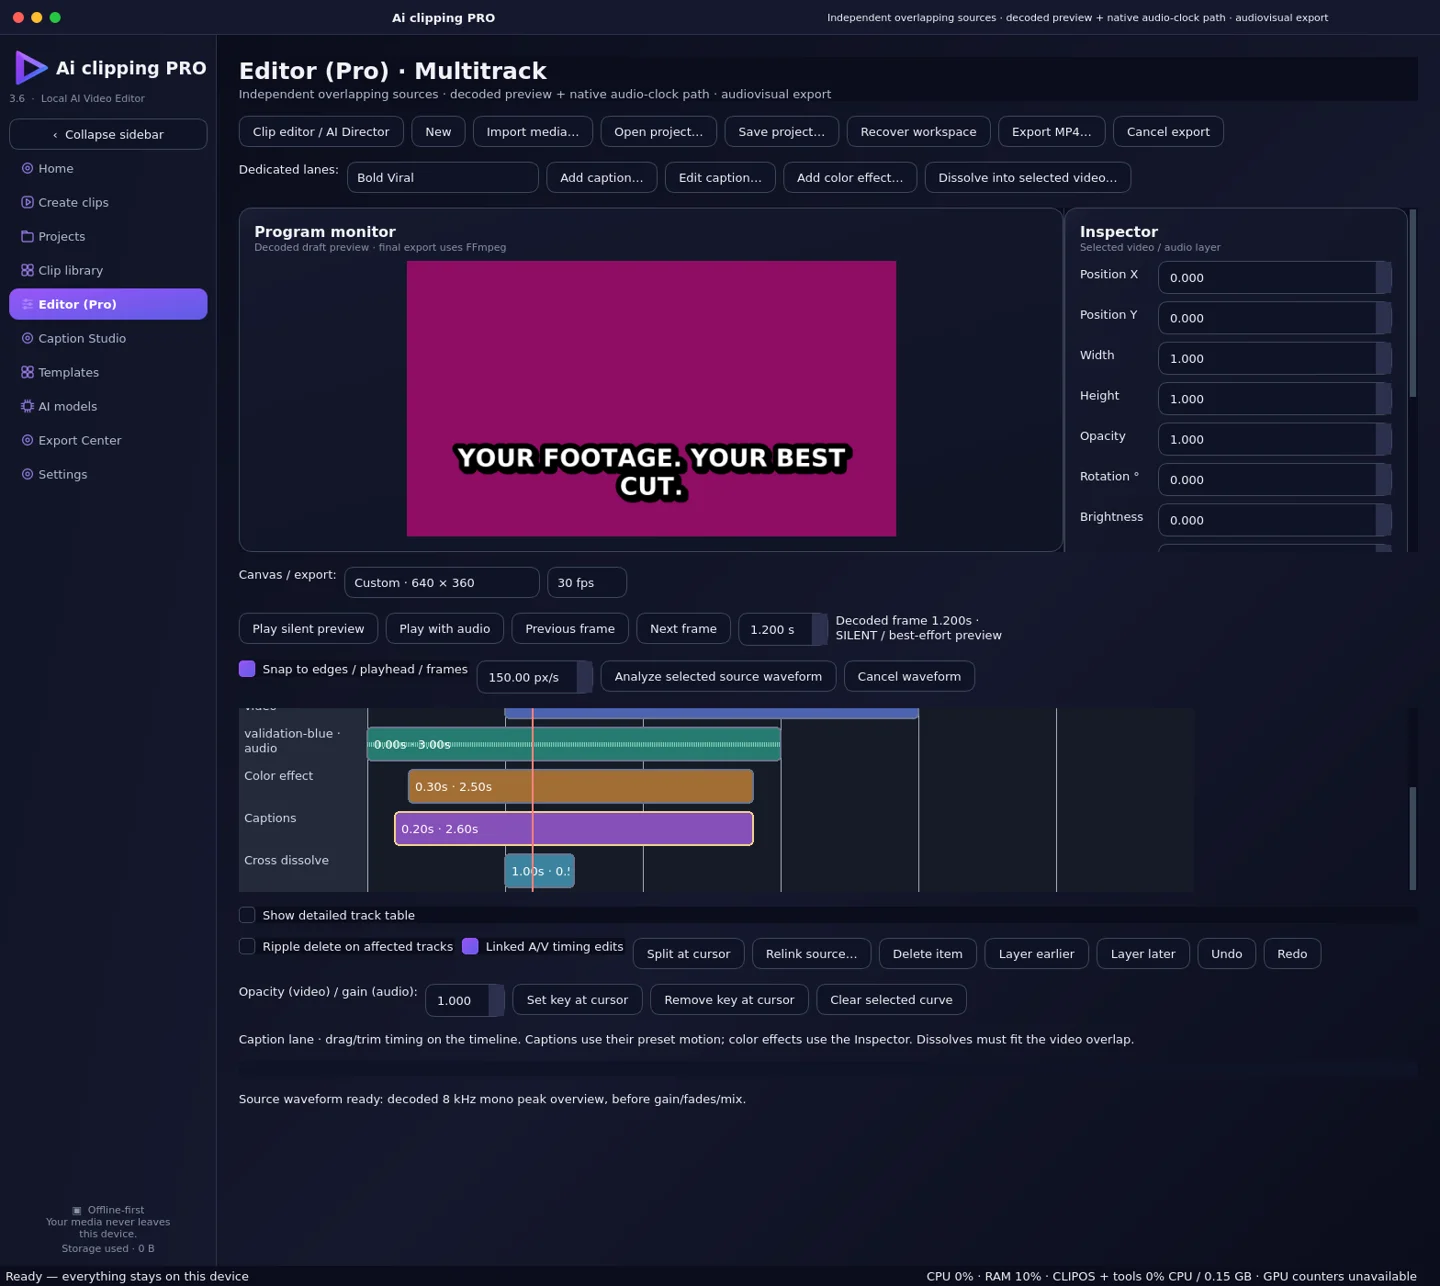
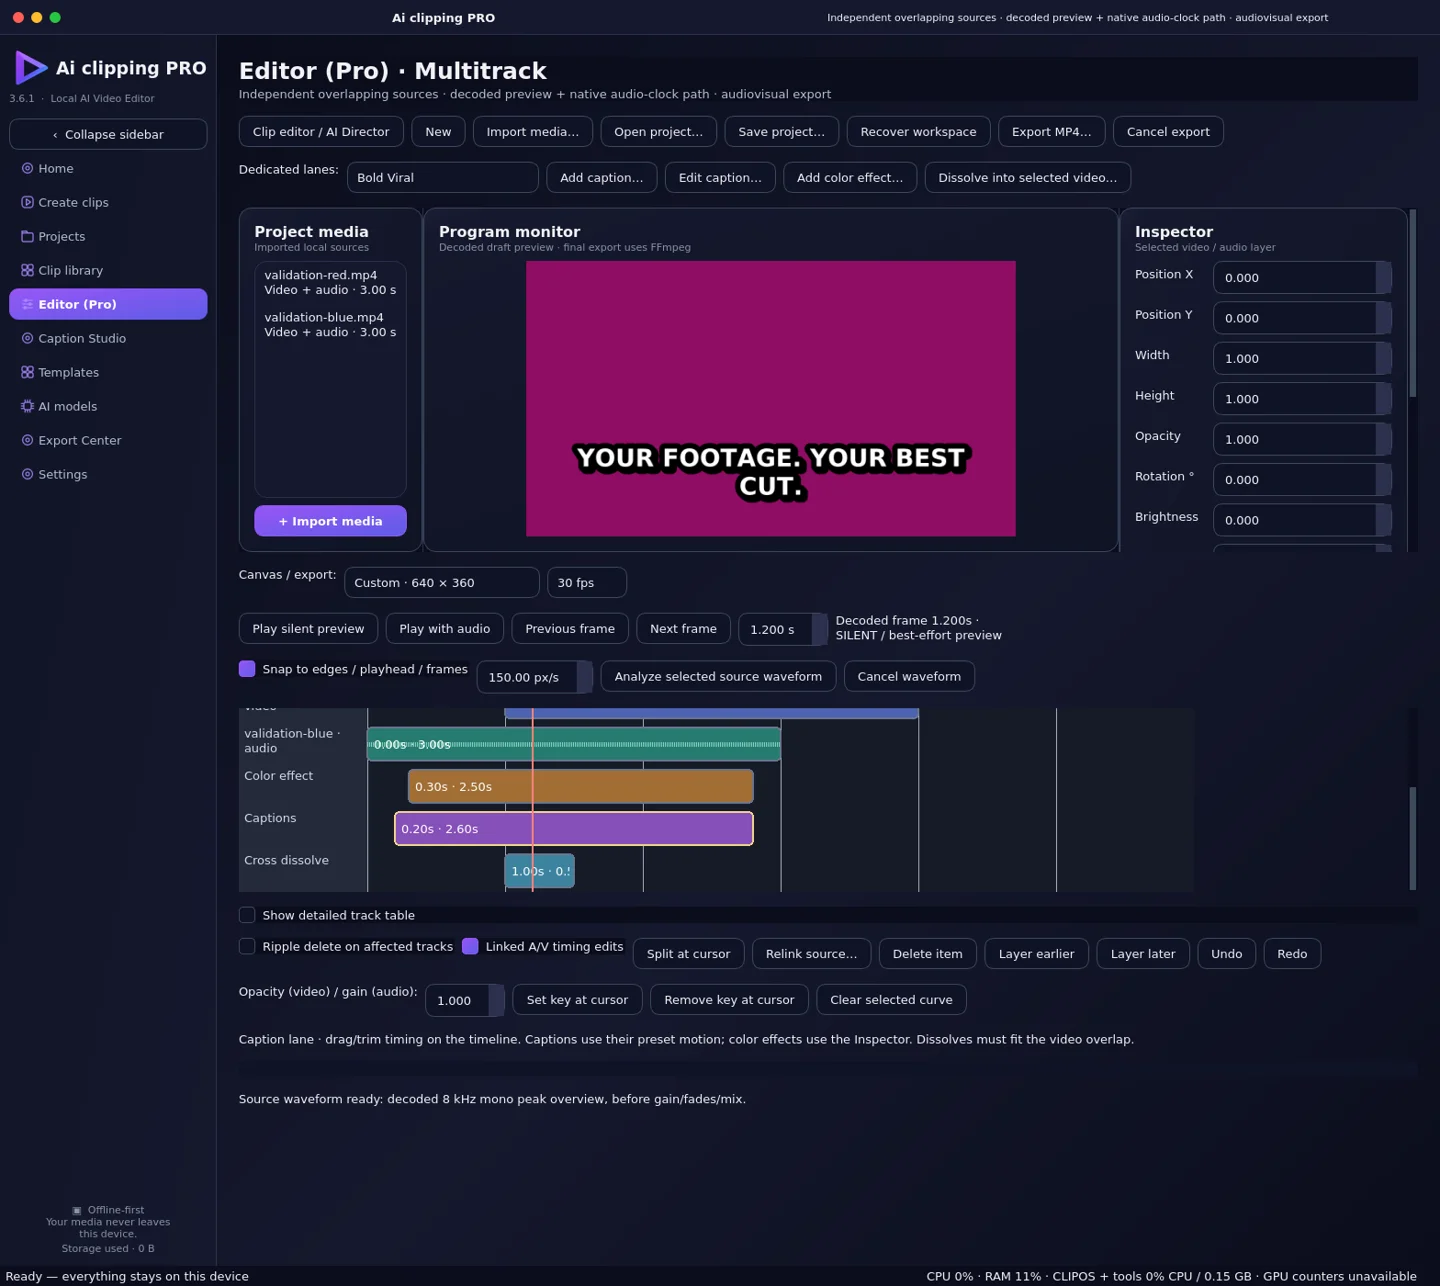
Publish v3.6.1 latest-only downloads and actual reference dashboard captures

Changed region(s): [[0.1562, 0.1555, 0.7188, 0.4355], [0.75, 0.1555, 0.875, 0.4355], [0.0312, 0.0622, 0.0938, 0.0933]]

diff --git a/docs/index.html b/docs/index.html
@@ -6,7 +6,7 @@
     <title>Ai clipping PRO — Your footage. Your best cut.</title>
     <meta
       name="description"
-      content="Make the cut, not the compromise. Ai clipping PRO is an offline-first native video editor with local AI assistance, customizable captions and real multitrack editing. Download v3.6.0."
+      content="Make the cut, not the compromise. Ai clipping PRO is an offline-first native video editor with local AI assistance, customizable captions and real multitrack editing. Download v3.6.1."
     />
     <meta name="theme-color" content="#0b0c14" />
     <meta
@@ -51,8 +51,8 @@
         <div class="hero-glow" aria-hidden="true"></div>
         <a
           class="release-chip"
-          href="https://github.com/Analoggeek/AiFreeClipping/releases/tag/v3.6.0"
-          ><span class="status-dot"></span> v3.6.0 is here
+          href="https://github.com/Analoggeek/AiFreeClipping/releases/tag/v3.6.1"
+          ><span class="status-dot"></span> v3.6.1 is here
           <span class="chip-divider">/</span> Meet your local creative workspace
           <span aria-hidden="true">↗</span></a
         >
@@ -114,7 +114,7 @@
           </div>
           <p>
             A focused native workspace, from your first import to the final
-            file. These are real screenshots from Ai clipping PRO v3.6.
+            file. These are real screenshots from Ai clipping PRO v3.6.1.
           </p>
         </div>
         <div class="studio-shell reveal">
@@ -140,7 +140,7 @@
               aria-controls="panel-home"
               tabindex="0"
             >
-              01 <span>Home & projects</span></button
+              01 <span>Create clips</span></button
             ><button
               id="tab-captions"
               role="tab"
@@ -167,16 +167,15 @@
           >
             <img
               src="assets/home.webp"
-              alt="Actual Ai clipping PRO Home screen with local Director handoff, project statistics, recent projects and hardware status. The empty library shows real zero counts."
+              alt="Actual Ai clipping PRO Create clips dashboard with connected four-step workflow, file/link import, quick styles, local AI Director, real recent projects and model availability."
               width="1440"
-              height="1010"
+              height="1056"
               fetchpriority="high"
             />
             <div class="panel-caption">
-              <b>Your creative home base.</b
+              <b>Your connected creative workspace.</b
               ><span
-                >Recent work, grounded AI assistance and real project
-                statistics.</span
+                >Real import, synchronized styles and explicit local-model checks.</span
               >
             </div>
           </div>
@@ -190,7 +189,7 @@
               src="assets/caption-studio.webp"
               alt="Actual Caption Studio showing a locally rendered caption frame, preset browser, typography, text colors, animation, alignment and timing controls."
               width="1440"
-              height="1010"
+              height="1056"
               loading="lazy"
             />
             <div class="panel-caption">
@@ -209,7 +208,7 @@
           >
             <img
               src="assets/editor.webp"
-              alt="Actual v3.6 multitrack validation project: generated red and blue footage dissolves into purple under a real caption; independent color-effect, caption and dissolve lanes are visible."
+              alt="Actual v3.6.1 multitrack validation project: generated red and blue footage dissolves into purple under a real caption; independent color-effect, caption and dissolve lanes are visible."
               width="1440"
               height="1286"
               loading="lazy"
@@ -392,7 +391,7 @@
         <div class="section-heading reveal">
           <div>
             <p class="eyebrow">
-              <span class="status-dot"></span> PUBLISHED RELEASE / v3.6.0
+              <span class="status-dot"></span> PUBLISHED RELEASE / v3.6.1
             </p>
             <h2>
               Your studio.<br /><span class="serif">Ready when you are.</span>
@@ -428,9 +427,9 @@
             <a
               class="button"
               data-asset="windows"
-              href="https://github.com/Analoggeek/AiFreeClipping/releases/download/v3.6.0/CLIPOS-Setup.exe"
+              href="https://github.com/Analoggeek/AiFreeClipping/releases/download/v3.6.1/CLIPOS-Setup.exe"
               >Download .exe <span aria-hidden="true">↓</span></a
-            ><small>v3.6.0 · Direct GitHub download</small>
+            ><small>v3.6.1 · Direct GitHub download</small>
           </article>
           <article class="download-card reveal" data-os="mac">
             <span class="platform-icon" aria-hidden="true">◒</span
@@ -440,9 +439,9 @@
             <a
               class="button"
               data-asset="mac-arm"
-              href="https://github.com/Analoggeek/AiFreeClipping/releases/download/v3.6.0/CLIPOS-3.6.0-arm64.dmg"
+              href="https://github.com/Analoggeek/AiFreeClipping/releases/download/v3.6.1/CLIPOS-3.6.1-arm64.dmg"
               >Download .dmg <span aria-hidden="true">↓</span></a
-            ><small>v3.6.0 · Direct GitHub download</small>
+            ><small>v3.6.1 · Direct GitHub download</small>
           </article>
           <article class="download-card reveal" data-os="mac">
             <span class="platform-icon" aria-hidden="true">◉</span
@@ -452,9 +451,9 @@
             <a
               class="button"
               data-asset="mac-intel"
-              href="https://github.com/Analoggeek/AiFreeClipping/releases/download/v3.6.0/CLIPOS-3.6.0-intel.dmg"
+              href="https://github.com/Analoggeek/AiFreeClipping/releases/download/v3.6.1/CLIPOS-3.6.1-intel.dmg"
               >Download .dmg <span aria-hidden="true">↓</span></a
-            ><small>v3.6.0 · Direct GitHub download</small>
+            ><small>v3.6.1 · Direct GitHub download</small>
           </article>
           <article class="download-card reveal" data-os="linux">
             <span class="platform-icon" aria-hidden="true">⌁</span
@@ -464,24 +463,24 @@
             <a
               class="button"
               data-asset="linux-deb"
-              href="https://github.com/Analoggeek/AiFreeClipping/releases/download/v3.6.0/CLIPOS_3.6.0_amd64.deb"
+              href="https://github.com/Analoggeek/AiFreeClipping/releases/download/v3.6.1/CLIPOS_3.6.1_amd64.deb"
               >Download .deb <span aria-hidden="true">↓</span></a
-            ><small>v3.6.0 · Direct GitHub download</small>
+            ><small>v3.6.1 · Direct GitHub download</small>
           </article>
         </div>
         <div class="archive-links">
           <span>Prefer an archive?</span
           ><a
             data-asset="mac-arm-app"
-            href="https://github.com/Analoggeek/AiFreeClipping/releases/download/v3.6.0/CLIPOS-arm64.app.tar.gz"
+            href="https://github.com/Analoggeek/AiFreeClipping/releases/download/v3.6.1/CLIPOS-arm64.app.tar.gz"
             >Apple Silicon .app ↗</a
           ><a
             data-asset="mac-intel-app"
-            href="https://github.com/Analoggeek/AiFreeClipping/releases/download/v3.6.0/CLIPOS-intel.app.tar.gz"
+            href="https://github.com/Analoggeek/AiFreeClipping/releases/download/v3.6.1/CLIPOS-intel.app.tar.gz"
             >Intel .app ↗</a
           ><a
             data-asset="linux-zip"
-            href="https://github.com/Analoggeek/AiFreeClipping/releases/download/v3.6.0/CLIPOS-3.6.0-linux-x86_64.zip"
+            href="https://github.com/Analoggeek/AiFreeClipping/releases/download/v3.6.1/CLIPOS-3.6.1-linux-x86_64.zip"
             >Linux portable ZIP ↗</a
           >
         </div>
@@ -496,7 +495,7 @@
         </div>
         <a
           class="text-link"
-          href="https://github.com/Analoggeek/AiFreeClipping/releases/tag/v3.6.0"
+          href="https://github.com/Analoggeek/AiFreeClipping/releases/tag/v3.6.1"
           >Release notes & installation details ↗</a
         >
       </section>
@@ -566,7 +565,7 @@
             </p>
             <div class="command">
               <code id="install-command"
-                >sudo apt install ./CLIPOS_3.6.0_amd64.deb</code
+                >sudo apt install ./CLIPOS_3.6.1_amd64.deb</code
               ><button
                 id="copy-command"
                 hidden
@@ -621,8 +620,8 @@
       <div class="footer-links">
         <a href="https://github.com/Analoggeek/AiFreeClipping">Source ↗</a
         ><a
-          href="https://github.com/Analoggeek/AiFreeClipping/releases/tag/v3.6.0"
-          >Release v3.6.0 ↗</a
+          href="https://github.com/Analoggeek/AiFreeClipping/releases/tag/v3.6.1"
+          >Release v3.6.1 ↗</a
         ><a href="https://github.com/Analoggeek/AiFreeClipping/issues"
           >Support ↗</a
         ><button id="motion-toggle" aria-pressed="false" hidden>

diff --git a/docs/style.css b/docs/style.css
@@ -1350,3 +1350,5 @@ html:has(body.reduce-motion) {
     padding: 8px 5px;
   }
 }
+
+#panel-home img{aspect-ratio:1440/1056}

diff --git a/tests/test_website.py b/tests/test_website.py
@@ -5,7 +5,7 @@ import re
 
 ROOT = Path(__file__).resolve().parents[1]
 SITE = ROOT / 'docs'
-RELEASE = 'v3.6.0'
+RELEASE = 'v3.6.1'
 
 
 class Page(HTMLParser):

diff --git a/README.md b/README.md
@@ -11,12 +11,12 @@ shape your captions, edit real timelines and export local files—without a mand
 cloud account, upload or subscription.
 
 **[Explore the website ↗](https://analoggeek.github.io/AiFreeClipping/)** ·
-**[Download v3.6.0 ↓](#download)** ·
+**[Download v3.6.1 ↓](#download)** ·
 **[Quick start](#quick-start)** ·
 **[What works](#features)** ·
 **[Support](https://github.com/Analoggeek/AiFreeClipping/issues)**
 
-**LATEST RELEASE: v3.6.0** · Windows · Apple Silicon · Intel Mac · Linux
+**LATEST RELEASE: v3.6.1** · Windows · Apple Silicon · Intel Mac · Linux
 
 </div>
 
@@ -25,16 +25,16 @@ cloud account, upload or subscription.
 ## Download
 
 Choose your platform. Every link below is a direct download from the official
-**v3.6.0** release—no download manager or account required.
+**v3.6.1** release—no download manager or account required.
 
 | Your system | Installer | Alternative |
 | :--- | :--- | :--- |
-| **Windows 10 / 11 · x64** | [**Download EXE ↓**](https://github.com/Analoggeek/AiFreeClipping/releases/download/v3.6.0/CLIPOS-Setup.exe) | — |
-| **macOS · Apple Silicon** | [**Download ARM64 DMG ↓**](https://github.com/Analoggeek/AiFreeClipping/releases/download/v3.6.0/CLIPOS-3.6.0-arm64.dmg) | [APP archive](https://github.com/Analoggeek/AiFreeClipping/releases/download/v3.6.0/CLIPOS-arm64.app.tar.gz) |
-| **macOS · Intel x86_64** | [**Download Intel DMG ↓**](https://github.com/Analoggeek/AiFreeClipping/releases/download/v3.6.0/CLIPOS-3.6.0-intel.dmg) | [APP archive](https://github.com/Analoggeek/AiFreeClipping/releases/download/v3.6.0/CLIPOS-intel.app.tar.gz) |
-| **Linux · Debian / Ubuntu amd64** | [**Download DEB ↓**](https://github.com/Analoggeek/AiFreeClipping/releases/download/v3.6.0/CLIPOS_3.6.0_amd64.deb) | [Portable ZIP](https://github.com/Analoggeek/AiFreeClipping/releases/download/v3.6.0/CLIPOS-3.6.0-linux-x86_64.zip) |
+| **Windows 10 / 11 · x64** | [**Download EXE ↓**](https://github.com/Analoggeek/AiFreeClipping/releases/download/v3.6.1/CLIPOS-Setup.exe) | — |
+| **macOS · Apple Silicon** | [**Download ARM64 DMG ↓**](https://github.com/Analoggeek/AiFreeClipping/releases/download/v3.6.1/CLIPOS-3.6.1-arm64.dmg) | [APP archive](https://github.com/Analoggeek/AiFreeClipping/releases/download/v3.6.1/CLIPOS-arm64.app.tar.gz) |
+| **macOS · Intel x86_64** | [**Download Intel DMG ↓**](https://github.com/Analoggeek/AiFreeClipping/releases/download/v3.6.1/CLIPOS-3.6.1-intel.dmg) | [APP archive](https://github.com/Analoggeek/AiFreeClipping/releases/download/v3.6.1/CLIPOS-intel.app.tar.gz) |
+| **Linux · Debian / Ubuntu amd64** | [**Download DEB ↓**](https://github.com/Analoggeek/AiFreeClipping/releases/download/v3.6.1/CLIPOS_3.6.1_amd64.deb) | [Portable ZIP](https://github.com/Analoggeek/AiFreeClipping/releases/download/v3.6.1/CLIPOS-3.6.1-linux-x86_64.zip) |
 
-[Release notes & all seven assets ↗](https://github.com/Analoggeek/AiFreeClipping/releases/tag/v3.6.0)
+[Release notes & all seven assets ↗](https://github.com/Analoggeek/AiFreeClipping/releases/tag/v3.6.1)
 
 > **Which Mac build?** Open **Apple menu → About This Mac**. “Chip: Apple M…” means
 > Apple Silicon; “Processor: Intel…” means the Intel build. Asset/executable names
@@ -49,7 +49,7 @@ Choose your platform. Every link below is a direct download from the official
 - **Debian / Ubuntu:** open the DEB in your package manager, or use:
 
   ```bash
-  sudo apt install ./CLIPOS_3.6.0_amd64.deb
+  sudo apt install ./CLIPOS_3.6.1_amd64.deb
   ```
 
 Download only from the official release. Native signature integrity checks are
@@ -60,9 +60,9 @@ Follow official OS security guidance; do not disable security protections.
 
 ## Inside the workspace
 
-[![Actual Ai clipping PRO Home screen](docs/assets/home.webp)](https://analoggeek.github.io/AiFreeClipping/#studio)
+[![Actual Ai clipping PRO reference-aligned Create clips dashboard](docs/assets/home.webp)](https://analoggeek.github.io/AiFreeClipping/#studio)
 
-*Actual v3.6 application capture. Empty-library counts are genuine—not seeded project statistics.*
+*Actual v3.6.1 application capture. The empty recent-project list and model availability are genuine—not seeded demo data.*
 
 ## Features
 
@@ -110,13 +110,24 @@ falls back to cue-level motion rather than fabricated synchronization.
 
 ![Actual multitrack validation project with caption, effect and dissolve lanes](docs/assets/editor.webp)
 
-Actual v3.6 application capture using generated red/blue validation footage—not
+Actual v3.6.1 application capture using generated red/blue validation footage—not
 user recordings. The purple blend is a real cross-dissolve, with ASS captions over
 video and a timed color-effect lane. The decoded preview is best-effort.
 
 [How to use these lanes](docs/MULTITRACK_OVERLAY_LANES.md)
 
 </details>
+
+## Reference-aligned native workspace
+
+The dashboard follows the supplied two-column design: hero, connected four-step
+workflow, real import target and six quick styles; Director, actual recent projects
+and model availability alongside. Narrow windows stack the columns. Editor (Pro)
+includes a Project Media panel linked to real timeline items. Settings has direct
+section navigation; existing preferences and projects are preserved.
+
+No fabricated project thumbnails, account/profile, cloud generation or model-ready
+badges are used. This is a native Qt interpretation, not a pixel-identical mockup.
 
 ## Quick start
 
@@ -175,14 +186,14 @@ These limitations are part of the current release, not hidden roadmap features:
 
 | Check | Verified result |
 | :--- | :--- |
-| Local full regression suite | **672 passed · 21 skipped** |
+| Local full regression suite | **676 passed · 21 skipped** |
 | Real import → analysis → render → batch export E2E | **35 / 35 passed** |
 | Native installer, editing and bundle verification | **Windows · Apple Silicon · Intel · Linux passed** |
 | Official release gate | **All seven nonempty assets published** |
 
-[Native installer checks](https://github.com/Analoggeek/AiFreeClipping/actions/runs/45638993928) ·
-[Intel audit](https://github.com/Analoggeek/AiFreeClipping/actions/runs/45639006957) ·
-[Official release build](https://github.com/Analoggeek/AiFreeClipping/actions/runs/45646294150)
+[Native installer checks](https://github.com/Analoggeek/AiFreeClipping/actions/runs/45656220903) ·
+[Intel audit](https://github.com/Analoggeek/AiFreeClipping/actions/runs/45656205495) ·
+[Official release build](https://github.com/Analoggeek/AiFreeClipping/actions/runs/45662127271)
 
 Automated checks do not replace manual acceptance on every source recording,
 physical device, driver or speech model. Skipped checks are not counted as passes.
@@ -243,7 +254,7 @@ their own LGPL/GPL terms.
 **Local intelligence. Creative independence.**
 
 [Website](https://analoggeek.github.io/AiFreeClipping/) ·
-[Download](https://github.com/Analoggeek/AiFreeClipping/releases/tag/v3.6.0) ·
+[Download](https://github.com/Analoggeek/AiFreeClipping/releases/tag/v3.6.1) ·
 [Report an issue](https://github.com/Analoggeek/AiFreeClipping/issues)
 
 **Ai clipping PRO · by Analoggeek**

diff --git a/docs/README.md b/docs/README.md
@@ -1,6 +1,6 @@
 # Ai clipping PRO website
 
-Responsive, dependency-free product website for the published **v3.6.0** native
+Responsive, dependency-free product website for the published **v3.6.1** native
 application. GitHub Pages serves `main:/docs` at
 **https://analoggeek.github.io/AiFreeClipping/**.
 
@@ -11,7 +11,7 @@ application. GitHub Pages serves `main:/docs` at
 - Keyboard-operable screenshot tabs, download filters, mobile navigation, native
   FAQ disclosures, Linux command copy and persisted reduced-motion preference.
 - OS reduced-motion support; visible keyboard focus, skip link and semantic landmarks.
-- All seven direct v3.6.0 release assets work without JavaScript, with no API request,
+- All seven direct v3.6.1 release assets work without JavaScript, with no API request,
   analytics, cookies, external fonts or external runtime dependencies.
 - No browser-based video processing demo or fake project/model/download statistics.
 
@@ -44,7 +44,7 @@ fallback, and the absence of unexpected browser errors or third-party requests.
 Merging the static files into `main` triggers the repository's existing GitHub Pages
 branch deployment. The Pages build/deployment result must be checked before claiming
 the public site is updated. No desktop installer rebuild or version change is required
-for a website/README-only update. Native v3.6.0 installer assets are not replaced.
+for a website/README-only update. Native v3.6.1 installer assets are not replaced.
 
 ## Updating the current release
 
